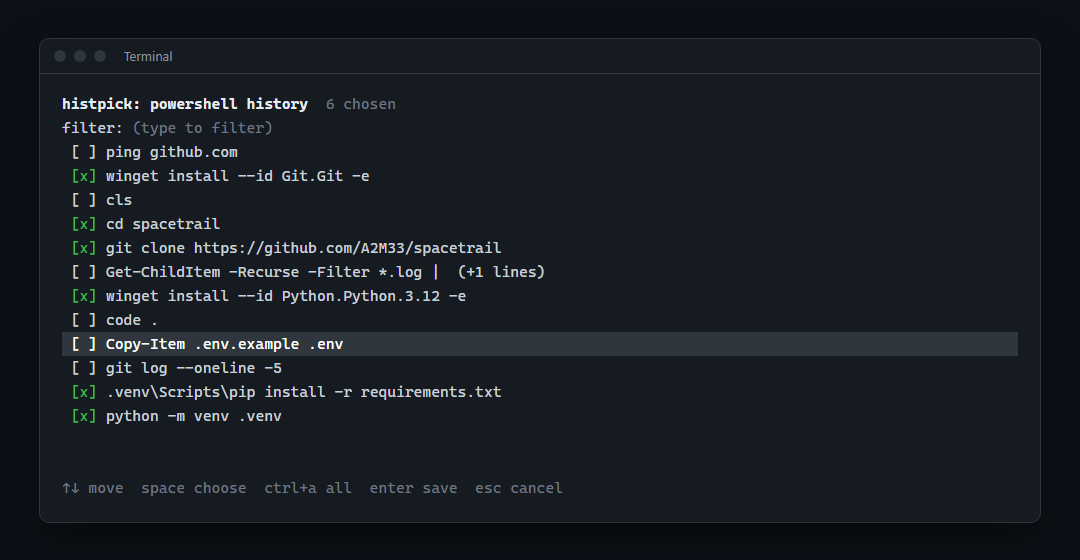
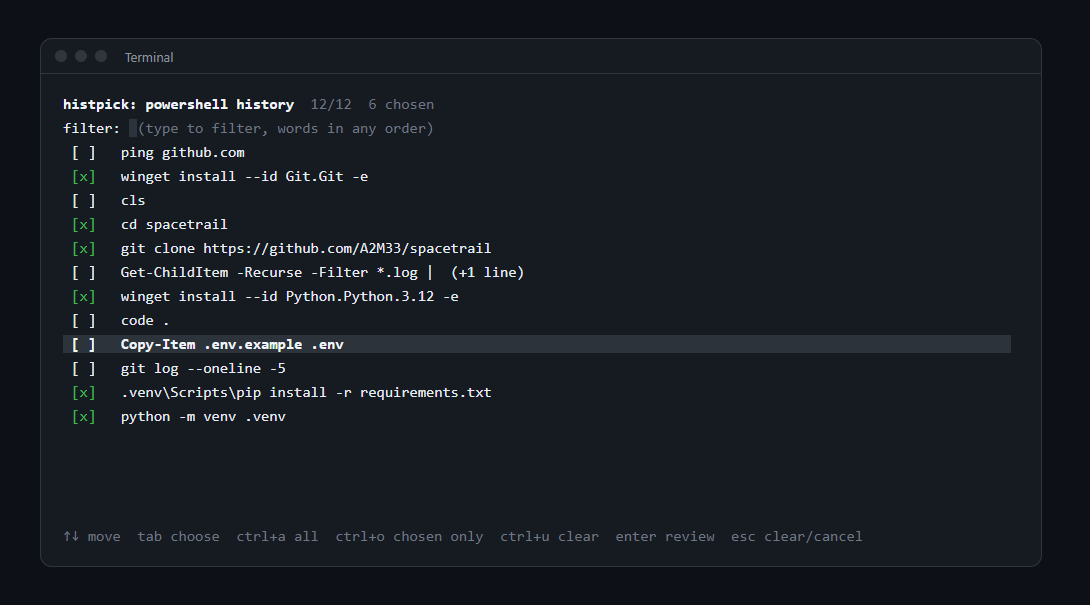
Show the current picker in the README image and bump to 0.2.1

Changed region(s): [[0.0306, 0.1518, 0.9472, 0.7589], [0.0611, 0.85, 0.9472, 0.9411], [0.0306, 0.0607, 0.9472, 0.1214]]

diff --git a/src/histpick/__init__.py b/src/histpick/__init__.py
@@ -1,1 +1,1 @@
-__version__ = "0.2.0"
+__version__ = "0.2.1"
